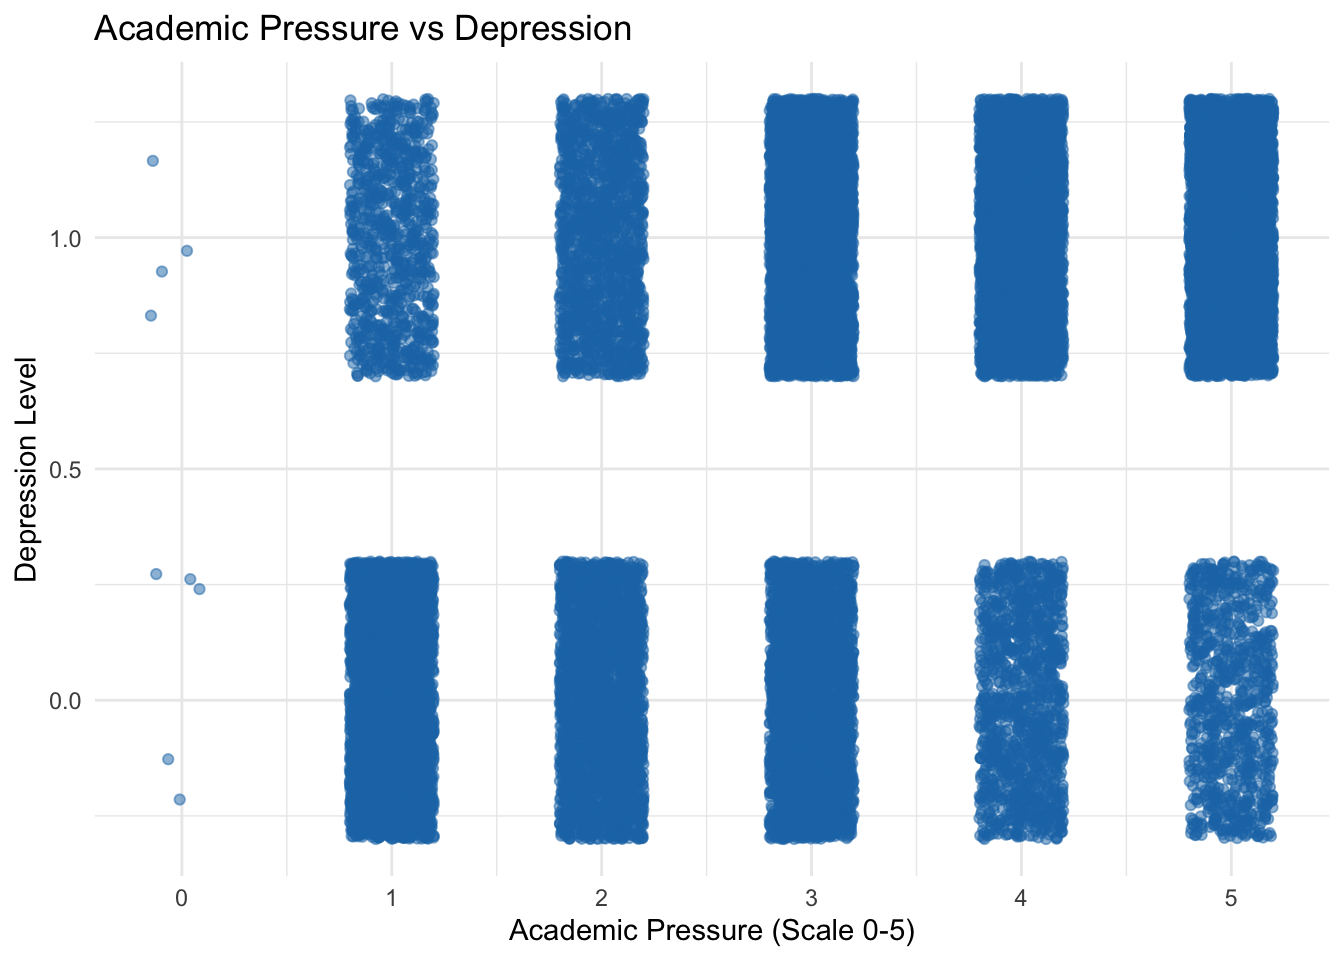
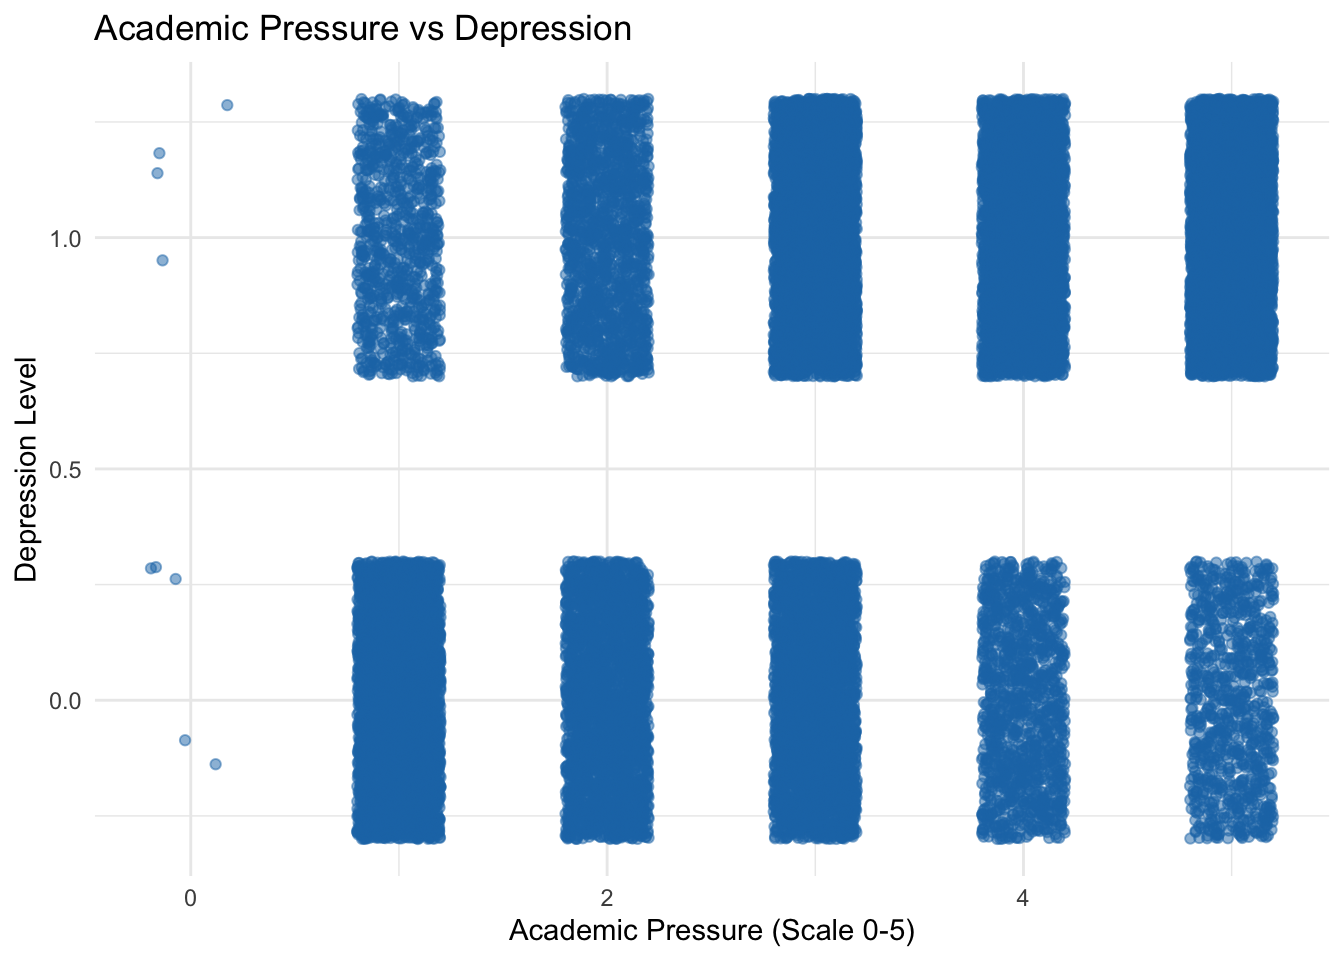
data analysis patrasta

diff --git a/_site/index.html b/_site/index.html
@@ -140,7 +140,6 @@ ul.task-list li input[type="checkbox"] {
 </header>
 
 
-<p>hello hello hello</p>
 
 
 
